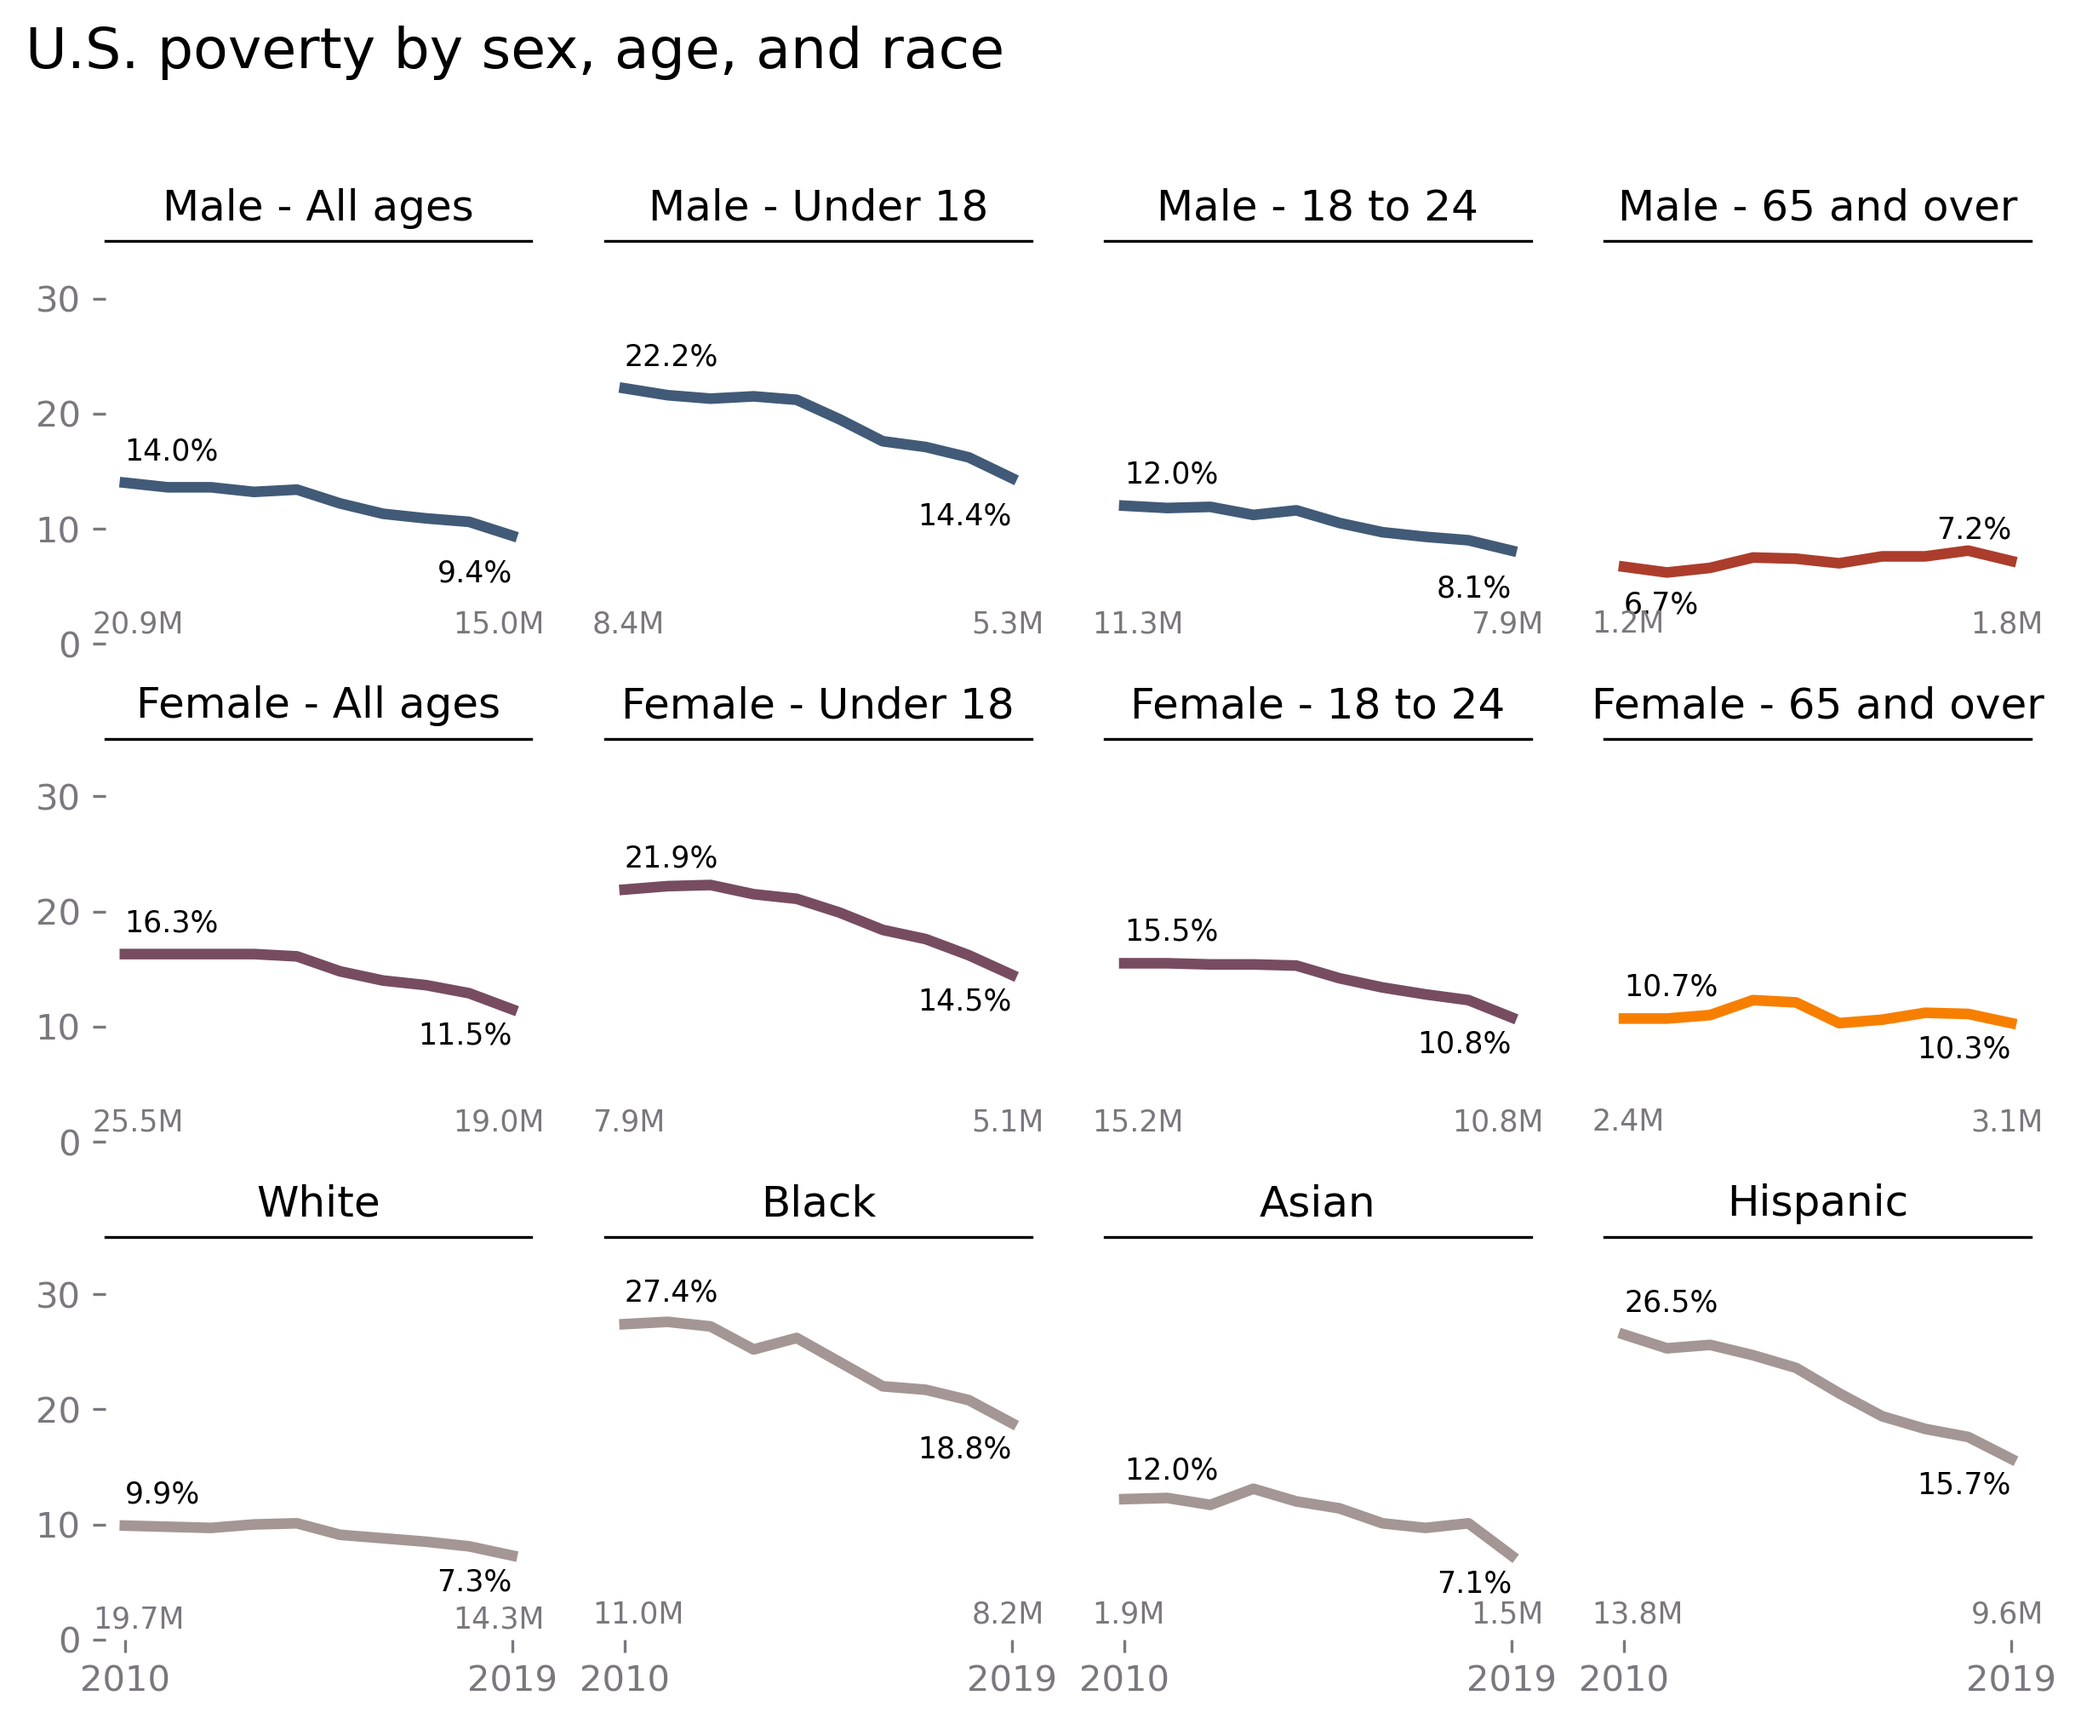
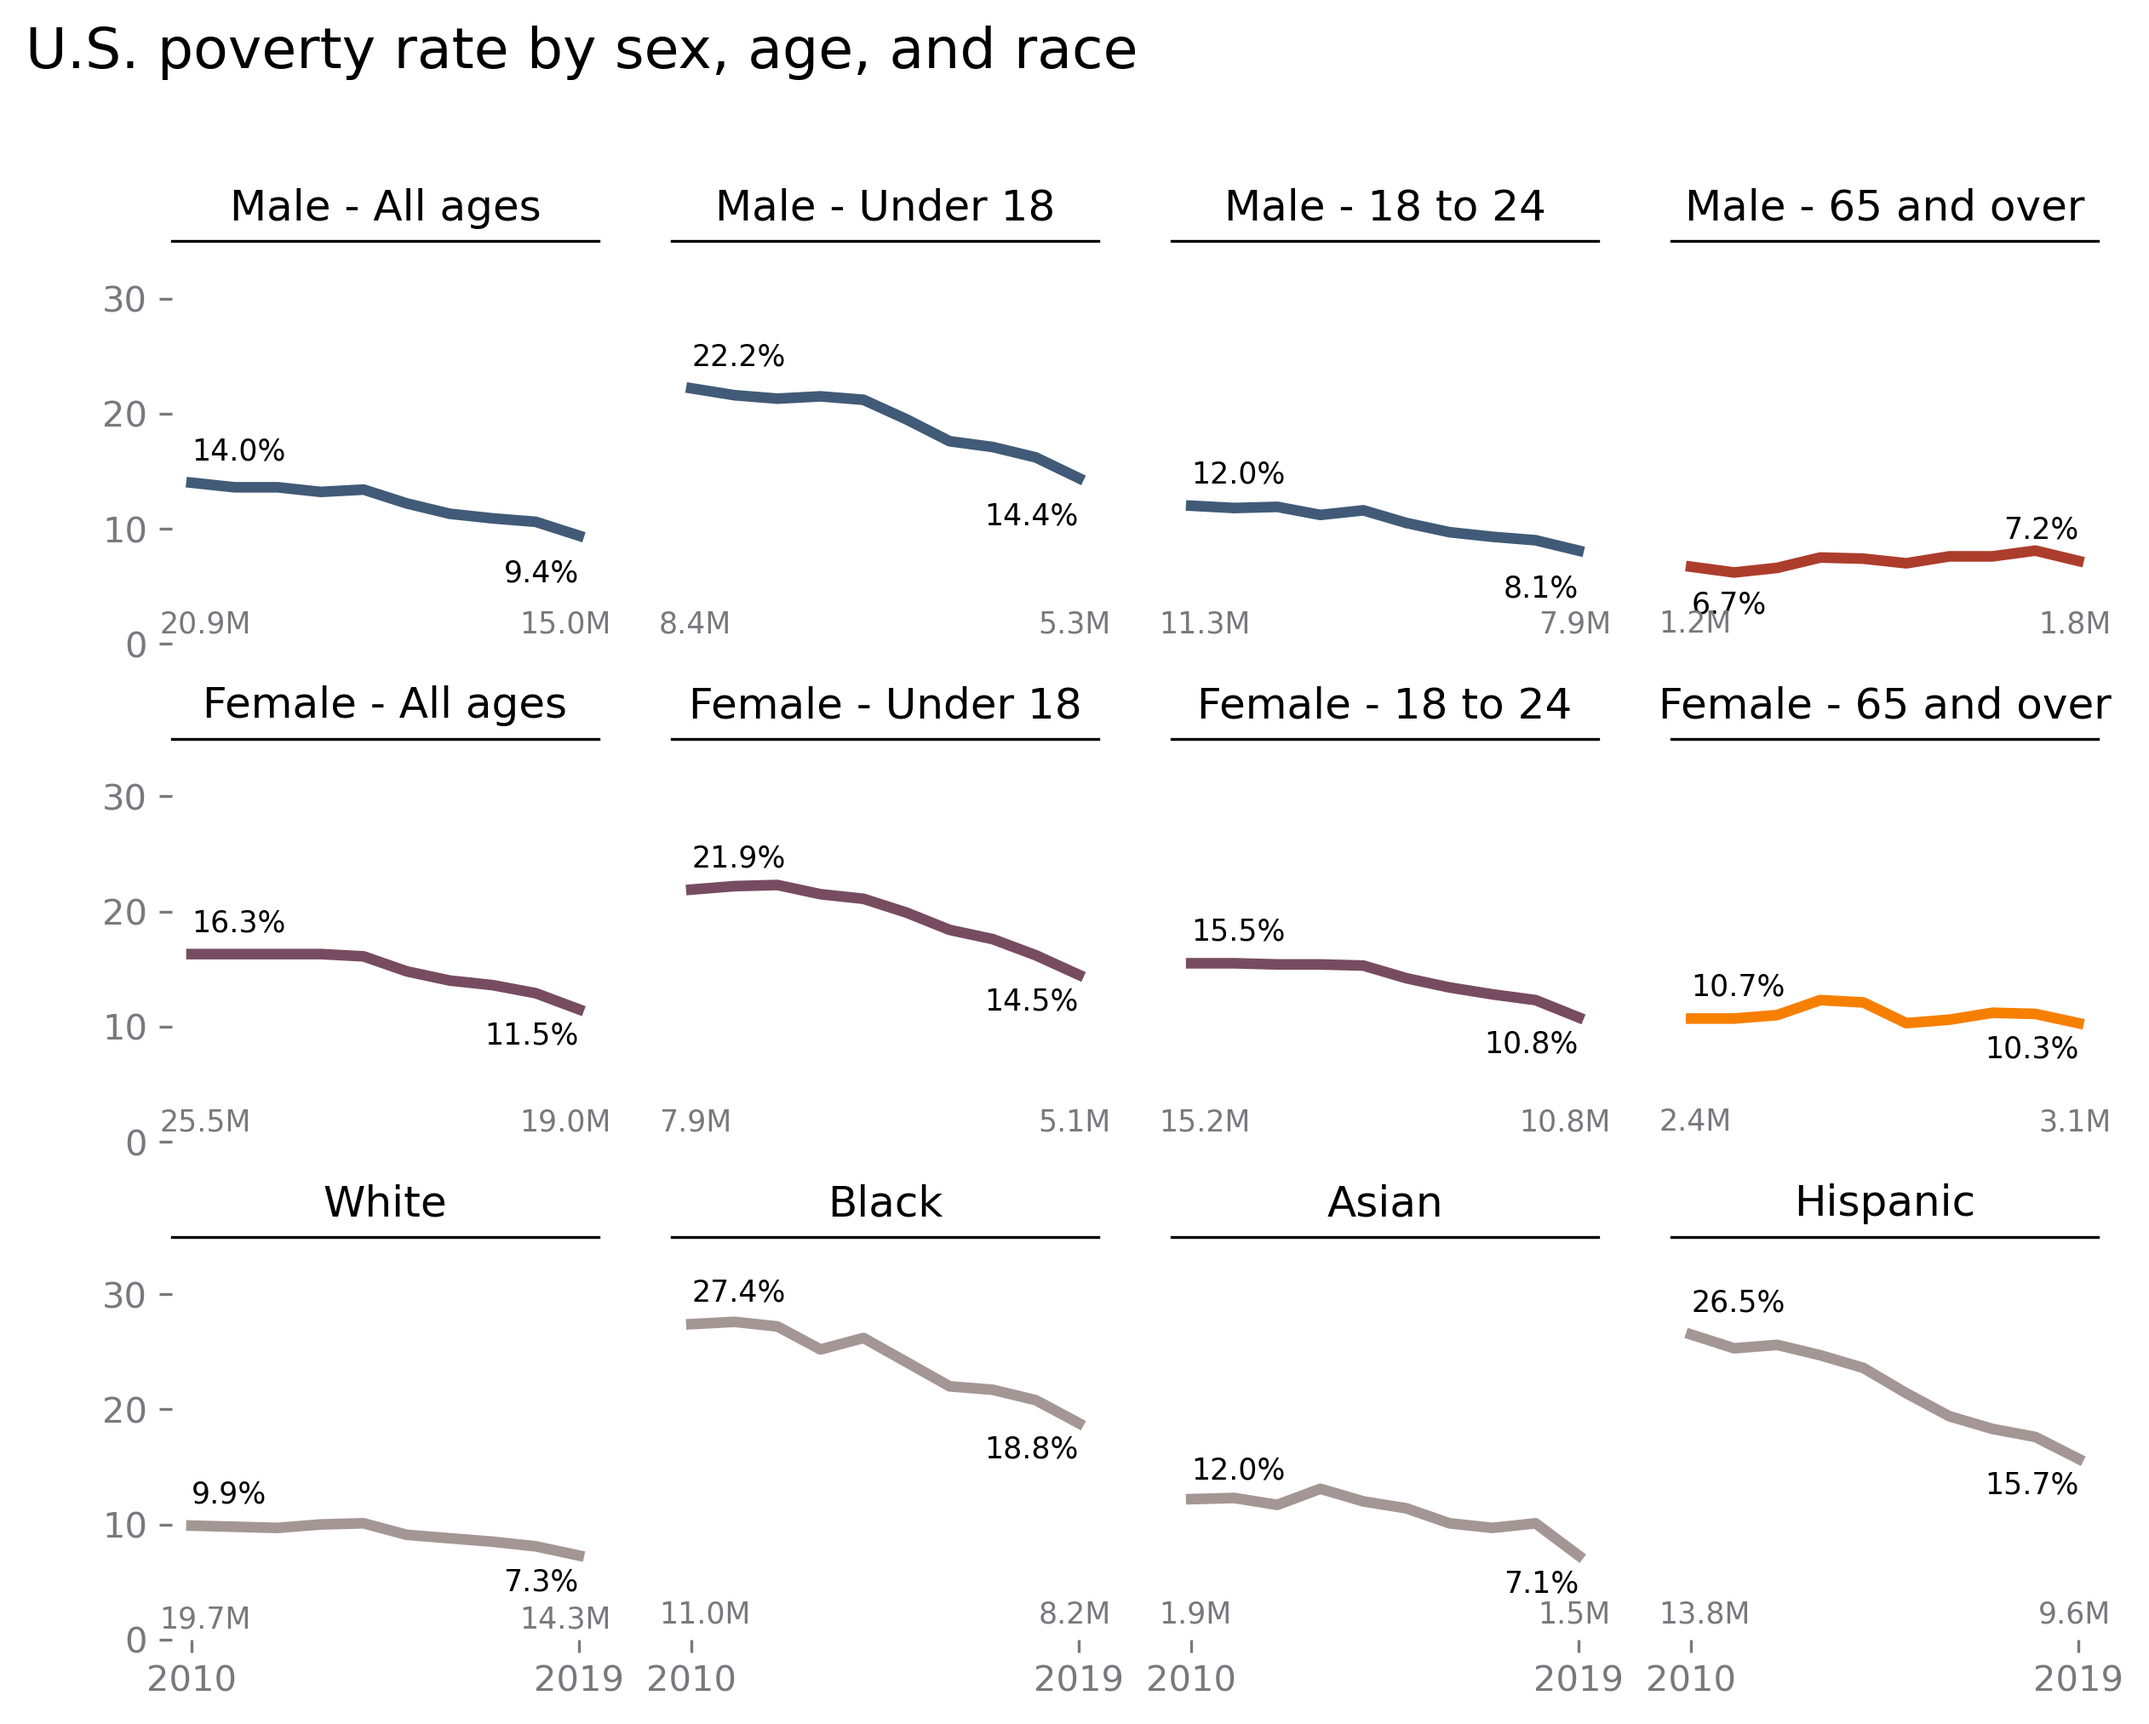
Updated titles of visuals for consistency

diff --git a/Week_8_Project_Assignment_Lyons.py b/Week_8_Project_Assignment_Lyons.py
@@ -357,7 +357,7 @@ ax2 = fig.add_subplot(gs[-1, 0])
 ax3 = fig.add_subplot(gs[-1, 1])
 ax4 = fig.add_subplot(gs[-1, 2])
 # Create suptitle
-fig.suptitle('U.S. Poverty rate overall and by family/individuals', 
+fig.suptitle('U.S. poverty rate overall and by family/individuals', 
              x=0.34, y=1.1, 
              fontsize=16)
 # Plot line and scatter
@@ -480,7 +480,8 @@ ax10 = fig.add_subplot(gs[2, 1])
 ax11 = fig.add_subplot(gs[2, 2])
 ax12 = fig.add_subplot(gs[2, 3])
 # Create suptitle
-fig.suptitle('U.S. poverty by sex, age, and race', x=0.24, y=1.1, fontsize=16)
+fig.suptitle('U.S. poverty rate by sex, age, and race', 
+             x=0.24, y=1.1, fontsize=16)
 # Plot small multiples
 ax1.plot(pr_sa_df.index, male_pr_sa_df['Male_Total_Below_%'], 
          color='#415A77', linewidth=3)
@@ -837,7 +838,8 @@ ax2.scatter(2015, 56516, color='#D62828')
 ax.axvline(2015, ymin=0.1, ymax=0.78, color='#343A40', ls='dotted')
 ax.axvline(2015, ymin=0.95, ymax=1.0, color='#343A40', ls='dotted')
 # Set titles
-ax1.set_title('Poverty rate, median income, and unemployment rate', loc='left', 
+ax1.set_title('U.S. poverty rate, median income, and unemployment rate', 
+              loc='left', 
               weight='semibold')
 # Create ax text
 #2010	15.1
